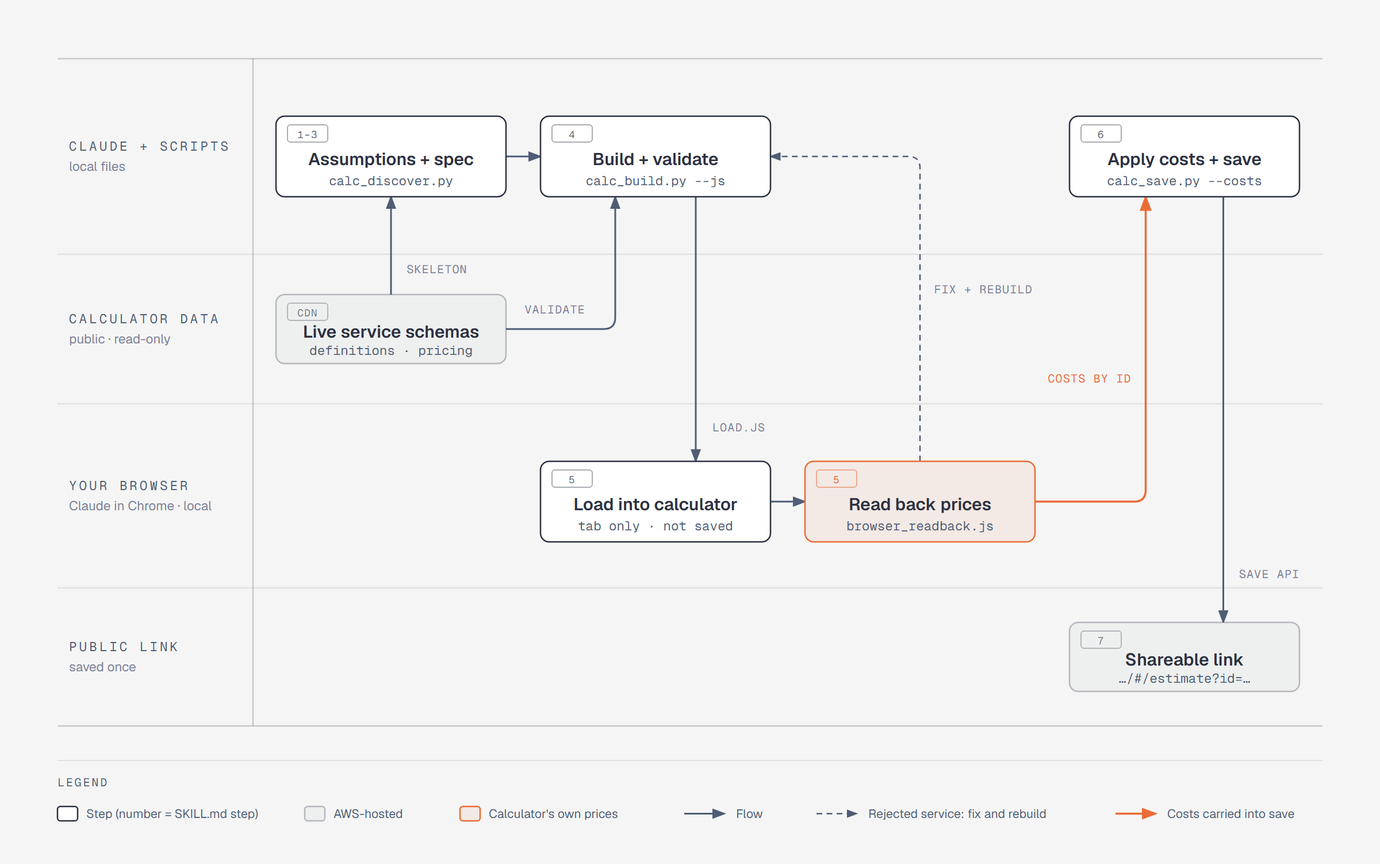
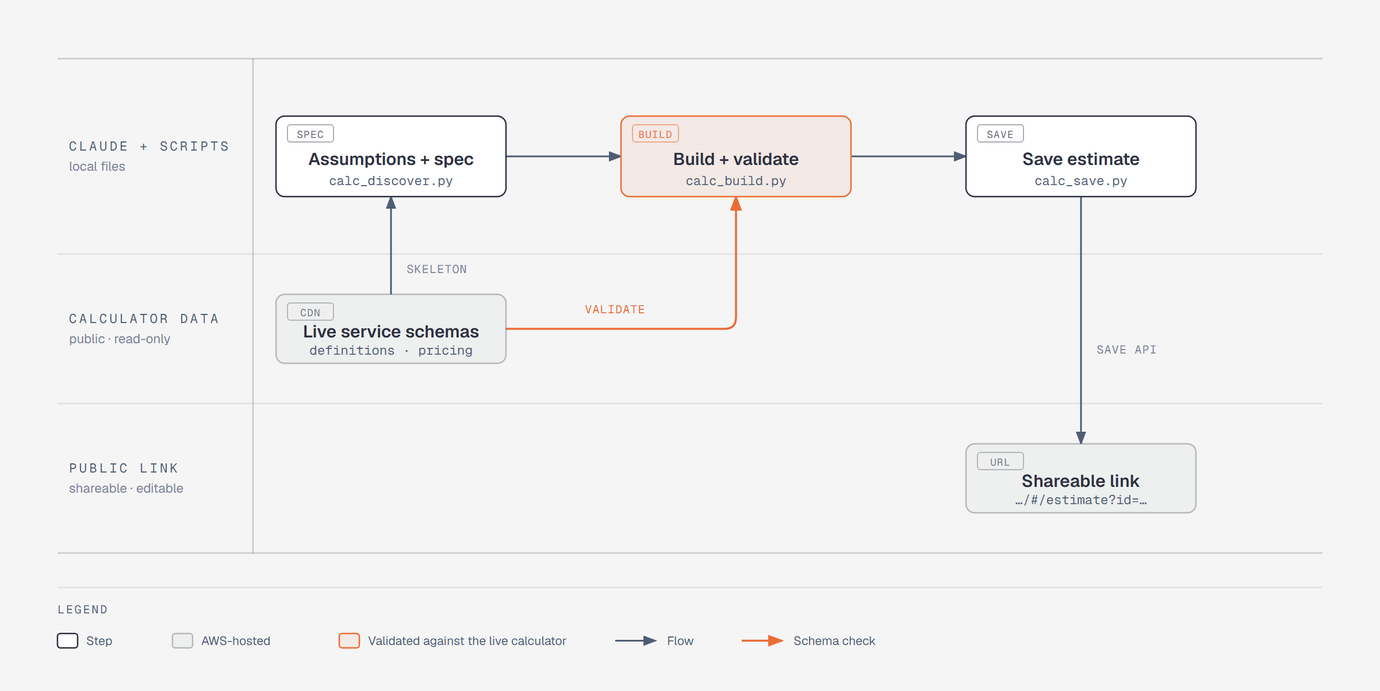
docs: simplify README and workflow diagram, tool-neutral wording
- README: shorter intro and feature list; diagram reduced to
  spec -> build + validate -> save -> link.
- SKILL.md, references, scripts: generic wording for tool references.

diff --git a/docs/workflow.html b/docs/workflow.html
@@ -58,9 +58,9 @@
     <p class="eyebrow">Swimlane · aws-pricing-calculator skill</p>
     <h1>From an architecture brief to a calculator link</h1>
 
-    <svg viewBox="0 0 960 600" xmlns="http://www.w3.org/2000/svg" role="img" aria-labelledby="skill-workflow-title skill-workflow-desc">
+    <svg viewBox="0 0 960 480" xmlns="http://www.w3.org/2000/svg" role="img" aria-labelledby="skill-workflow-title skill-workflow-desc">
       <title id="skill-workflow-title">How the aws-pricing-calculator skill builds an estimate</title>
-      <desc id="skill-workflow-desc">Swimlane showing the skill writing a spec, building and validating it against the calculator's live service schemas, loading it into a local browser tab where the calculator prices it, reading those prices back, and saving once to a shareable public link, with a fix-and-rebuild loop when the calculator rejects a service.</desc>
+      <desc id="skill-workflow-desc">Swimlane showing the skill writing a spec, building and validating it against the calculator's live service schemas, and saving it to a shareable calculator link.</desc>
       <defs>
         <marker id="arrow" markerWidth="8" markerHeight="6" refX="7" refY="3" orient="auto"><polygon points="0 0, 8 3, 0 6" fill="#4f5d75"/></marker>
         <marker id="arrow-accent" markerWidth="8" markerHeight="6" refX="7" refY="3" orient="auto"><polygon points="0 0, 8 3, 0 6" fill="#eb6c36"/></marker>
@@ -73,130 +73,96 @@
       <line x1="40" y1="40" x2="920" y2="40" stroke="rgba(45,49,66,0.22)" stroke-width="1"/>
       <line x1="40" y1="176" x2="920" y2="176" stroke="rgba(45,49,66,0.10)" stroke-width="1"/>
       <line x1="40" y1="280" x2="920" y2="280" stroke="rgba(45,49,66,0.10)" stroke-width="1"/>
-      <line x1="40" y1="408" x2="920" y2="408" stroke="rgba(45,49,66,0.10)" stroke-width="1"/>
-      <line x1="40" y1="504" x2="920" y2="504" stroke="rgba(45,49,66,0.22)" stroke-width="1"/>
-      <line x1="176" y1="40" x2="176" y2="504" stroke="rgba(45,49,66,0.22)" stroke-width="1"/>
+      <line x1="40" y1="384" x2="920" y2="384" stroke="rgba(45,49,66,0.22)" stroke-width="1"/>
+      <line x1="176" y1="40" x2="176" y2="384" stroke="rgba(45,49,66,0.22)" stroke-width="1"/>
 
       <!-- Lane labels -->
       <text x="48" y="104" fill="#4f5d75" font-size="9" font-family="'Geist Mono', monospace" letter-spacing="0.18em">CLAUDE + SCRIPTS</text>
       <text x="48" y="118" fill="#7a8399" font-size="9" font-family="'Geist', sans-serif">local files</text>
       <text x="48" y="224" fill="#4f5d75" font-size="9" font-family="'Geist Mono', monospace" letter-spacing="0.18em">CALCULATOR DATA</text>
       <text x="48" y="238" fill="#7a8399" font-size="9" font-family="'Geist', sans-serif">public · read-only</text>
-      <text x="48" y="340" fill="#4f5d75" font-size="9" font-family="'Geist Mono', monospace" letter-spacing="0.18em">YOUR BROWSER</text>
-      <text x="48" y="354" fill="#7a8399" font-size="9" font-family="'Geist', sans-serif">Claude in Chrome · local</text>
-      <text x="48" y="452" fill="#4f5d75" font-size="9" font-family="'Geist Mono', monospace" letter-spacing="0.18em">PUBLIC LINK</text>
-      <text x="48" y="466" fill="#7a8399" font-size="9" font-family="'Geist', sans-serif">saved once</text>
+      <text x="48" y="328" fill="#4f5d75" font-size="9" font-family="'Geist Mono', monospace" letter-spacing="0.18em">PUBLIC LINK</text>
+      <text x="48" y="342" fill="#7a8399" font-size="9" font-family="'Geist', sans-serif">shareable · editable</text>
 
       <!-- Connectors (drawn before nodes) -->
       <!-- Spec → Build -->
-      <line x1="352" y1="108" x2="376" y2="108" stroke="#4f5d75" stroke-width="1.2" marker-end="url(#arrow)"/>
+      <line x1="352" y1="108" x2="432" y2="108" stroke="#4f5d75" stroke-width="1.2" marker-end="url(#arrow)"/>
+      <!-- Build → Save -->
+      <line x1="592" y1="108" x2="672" y2="108" stroke="#4f5d75" stroke-width="1.2" marker-end="url(#arrow)"/>
       <!-- Schemas → Spec (skeleton) -->
       <line x1="272" y1="204" x2="272" y2="136" stroke="#4f5d75" stroke-width="1.2" marker-end="url(#arrow)"/>
       <!-- Schemas → Build (validate) -->
-      <path d="M 352,228 H 420 Q 428,228 428,220 V 136" fill="none" stroke="#4f5d75" stroke-width="1.2" marker-end="url(#arrow)"/>
-      <!-- Build → Load -->
-      <line x1="484" y1="136" x2="484" y2="320" stroke="#4f5d75" stroke-width="1.2" marker-end="url(#arrow)"/>
-      <!-- Load → Read back -->
-      <line x1="536" y1="348" x2="560" y2="348" stroke="#4f5d75" stroke-width="1.2" marker-end="url(#arrow)"/>
-      <!-- Read back → Build (fix loop) -->
-      <path d="M 640,320 V 116 Q 640,108 632,108 H 536" fill="none" stroke="#4f5d75" stroke-width="1" stroke-dasharray="4,3" marker-end="url(#arrow)"/>
-      <!-- Read back → Save (calculator costs) -->
-      <path d="M 720,348 H 789 Q 797,348 797,340 V 136" fill="none" stroke="#eb6c36" stroke-width="1.4" marker-end="url(#arrow-accent)"/>
+      <path d="M 352,228 H 504 Q 512,228 512,220 V 136" fill="none" stroke="#eb6c36" stroke-width="1.4" marker-end="url(#arrow-accent)"/>
       <!-- Save → Link -->
-      <line x1="851" y1="136" x2="851" y2="432" stroke="#4f5d75" stroke-width="1.2" marker-end="url(#arrow)"/>
+      <line x1="752" y1="136" x2="752" y2="308" stroke="#4f5d75" stroke-width="1.2" marker-end="url(#arrow)"/>
 
       <!-- Connector labels -->
       <rect x="280" y="180" width="48" height="12" rx="2" fill="#f5f5f5"/>
       <text x="304" y="189" fill="#7a8399" font-size="8" font-family="'Geist Mono', monospace" text-anchor="middle" letter-spacing="0.06em">SKELETON</text>
-      <rect x="362" y="208" width="48" height="12" rx="2" fill="#f5f5f5"/>
-      <text x="386" y="217" fill="#7a8399" font-size="8" font-family="'Geist Mono', monospace" text-anchor="middle" letter-spacing="0.06em">VALIDATE</text>
-      <rect x="492" y="290" width="44" height="12" rx="2" fill="#f5f5f5"/>
-      <text x="514" y="299" fill="#7a8399" font-size="8" font-family="'Geist Mono', monospace" text-anchor="middle" letter-spacing="0.06em">LOAD.JS</text>
-      <rect x="648" y="194" width="72" height="12" rx="2" fill="#f5f5f5"/>
-      <text x="684" y="203" fill="#7a8399" font-size="8" font-family="'Geist Mono', monospace" text-anchor="middle" letter-spacing="0.06em">FIX + REBUILD</text>
-      <rect x="727" y="256" width="62" height="12" rx="2" fill="#f5f5f5"/>
-      <text x="758" y="265" fill="#eb6c36" font-size="8" font-family="'Geist Mono', monospace" text-anchor="middle" letter-spacing="0.06em">COSTS BY ID</text>
-      <rect x="859" y="392" width="48" height="12" rx="2" fill="#f5f5f5"/>
-      <text x="883" y="401" fill="#7a8399" font-size="8" font-family="'Geist Mono', monospace" text-anchor="middle" letter-spacing="0.06em">SAVE API</text>
+      <rect x="404" y="208" width="48" height="12" rx="2" fill="#f5f5f5"/>
+      <text x="428" y="217" fill="#eb6c36" font-size="8" font-family="'Geist Mono', monospace" text-anchor="middle" letter-spacing="0.06em">VALIDATE</text>
+      <rect x="760" y="236" width="48" height="12" rx="2" fill="#f5f5f5"/>
+      <text x="784" y="245" fill="#7a8399" font-size="8" font-family="'Geist Mono', monospace" text-anchor="middle" letter-spacing="0.06em">SAVE API</text>
 
       <!-- Nodes -->
-      <!-- 1-3 Assumptions + spec -->
+      <!-- Assumptions + spec -->
       <rect x="192" y="80" width="160" height="56" rx="6" fill="#f5f5f5"/>
       <rect x="192" y="80" width="160" height="56" rx="6" fill="#ffffff" stroke="#2d3142" stroke-width="1"/>
-      <rect x="200" y="86" width="28" height="12" rx="2" fill="transparent" stroke="rgba(45,49,66,0.40)" stroke-width="0.8"/>
-      <text x="214" y="95" fill="rgba(45,49,66,0.8)" font-size="7" font-family="'Geist Mono', monospace" text-anchor="middle" letter-spacing="0.08em">1–3</text>
+      <rect x="200" y="86" width="32" height="12" rx="2" fill="transparent" stroke="rgba(45,49,66,0.40)" stroke-width="0.8"/>
+      <text x="216" y="95" fill="rgba(45,49,66,0.8)" font-size="7" font-family="'Geist Mono', monospace" text-anchor="middle" letter-spacing="0.08em">SPEC</text>
       <text x="272" y="114" fill="#2d3142" font-size="12" font-weight="600" font-family="'Geist', sans-serif" text-anchor="middle">Assumptions + spec</text>
       <text x="272" y="128" fill="#4f5d75" font-size="9" font-family="'Geist Mono', monospace" text-anchor="middle">calc_discover.py</text>
 
-      <!-- 4 Build + validate -->
-      <rect x="376" y="80" width="160" height="56" rx="6" fill="#f5f5f5"/>
-      <rect x="376" y="80" width="160" height="56" rx="6" fill="#ffffff" stroke="#2d3142" stroke-width="1"/>
-      <rect x="384" y="86" width="28" height="12" rx="2" fill="transparent" stroke="rgba(45,49,66,0.40)" stroke-width="0.8"/>
-      <text x="398" y="95" fill="rgba(45,49,66,0.8)" font-size="7" font-family="'Geist Mono', monospace" text-anchor="middle" letter-spacing="0.08em">4</text>
-      <text x="456" y="114" fill="#2d3142" font-size="12" font-weight="600" font-family="'Geist', sans-serif" text-anchor="middle">Build + validate</text>
-      <text x="456" y="128" fill="#4f5d75" font-size="9" font-family="'Geist Mono', monospace" text-anchor="middle">calc_build.py --js</text>
+      <!-- Build + validate (focal) -->
+      <rect x="432" y="80" width="160" height="56" rx="6" fill="#f5f5f5"/>
+      <rect x="432" y="80" width="160" height="56" rx="6" fill="rgba(235,108,54,0.08)" stroke="#eb6c36" stroke-width="1"/>
+      <rect x="440" y="86" width="32" height="12" rx="2" fill="transparent" stroke="rgba(235,108,54,0.50)" stroke-width="0.8"/>
+      <text x="456" y="95" fill="#eb6c36" font-size="7" font-family="'Geist Mono', monospace" text-anchor="middle" letter-spacing="0.08em">BUILD</text>
+      <text x="512" y="114" fill="#2d3142" font-size="12" font-weight="600" font-family="'Geist', sans-serif" text-anchor="middle">Build + validate</text>
+      <text x="512" y="128" fill="#4f5d75" font-size="9" font-family="'Geist Mono', monospace" text-anchor="middle">calc_build.py</text>
 
-      <!-- 6 Apply costs + save -->
-      <rect x="744" y="80" width="160" height="56" rx="6" fill="#f5f5f5"/>
-      <rect x="744" y="80" width="160" height="56" rx="6" fill="#ffffff" stroke="#2d3142" stroke-width="1"/>
-      <rect x="752" y="86" width="28" height="12" rx="2" fill="transparent" stroke="rgba(45,49,66,0.40)" stroke-width="0.8"/>
-      <text x="766" y="95" fill="rgba(45,49,66,0.8)" font-size="7" font-family="'Geist Mono', monospace" text-anchor="middle" letter-spacing="0.08em">6</text>
-      <text x="824" y="114" fill="#2d3142" font-size="12" font-weight="600" font-family="'Geist', sans-serif" text-anchor="middle">Apply costs + save</text>
-      <text x="824" y="128" fill="#4f5d75" font-size="9" font-family="'Geist Mono', monospace" text-anchor="middle">calc_save.py --costs</text>
+      <!-- Save estimate -->
+      <rect x="672" y="80" width="160" height="56" rx="6" fill="#f5f5f5"/>
+      <rect x="672" y="80" width="160" height="56" rx="6" fill="#ffffff" stroke="#2d3142" stroke-width="1"/>
+      <rect x="680" y="86" width="32" height="12" rx="2" fill="transparent" stroke="rgba(45,49,66,0.40)" stroke-width="0.8"/>
+      <text x="696" y="95" fill="rgba(45,49,66,0.8)" font-size="7" font-family="'Geist Mono', monospace" text-anchor="middle" letter-spacing="0.08em">SAVE</text>
+      <text x="752" y="114" fill="#2d3142" font-size="12" font-weight="600" font-family="'Geist', sans-serif" text-anchor="middle">Save estimate</text>
+      <text x="752" y="128" fill="#4f5d75" font-size="9" font-family="'Geist Mono', monospace" text-anchor="middle">calc_save.py</text>
 
       <!-- Live service schemas (external) -->
       <rect x="192" y="204" width="160" height="48" rx="6" fill="#f5f5f5"/>
       <rect x="192" y="204" width="160" height="48" rx="6" fill="rgba(45,49,66,0.03)" stroke="rgba(45,49,66,0.30)" stroke-width="1"/>
-      <rect x="200" y="210" width="28" height="12" rx="2" fill="transparent" stroke="rgba(45,49,66,0.30)" stroke-width="0.8"/>
-      <text x="214" y="219" fill="rgba(45,49,66,0.7)" font-size="7" font-family="'Geist Mono', monospace" text-anchor="middle" letter-spacing="0.08em">CDN</text>
+      <rect x="200" y="210" width="32" height="12" rx="2" fill="transparent" stroke="rgba(45,49,66,0.30)" stroke-width="0.8"/>
+      <text x="216" y="219" fill="rgba(45,49,66,0.7)" font-size="7" font-family="'Geist Mono', monospace" text-anchor="middle" letter-spacing="0.08em">CDN</text>
       <text x="272" y="234" fill="#2d3142" font-size="12" font-weight="600" font-family="'Geist', sans-serif" text-anchor="middle">Live service schemas</text>
       <text x="272" y="246" fill="#4f5d75" font-size="9" font-family="'Geist Mono', monospace" text-anchor="middle">definitions · pricing</text>
 
-      <!-- 5 Load into calculator -->
-      <rect x="376" y="320" width="160" height="56" rx="6" fill="#f5f5f5"/>
-      <rect x="376" y="320" width="160" height="56" rx="6" fill="#ffffff" stroke="#2d3142" stroke-width="1"/>
-      <rect x="384" y="326" width="28" height="12" rx="2" fill="transparent" stroke="rgba(45,49,66,0.40)" stroke-width="0.8"/>
-      <text x="398" y="335" fill="rgba(45,49,66,0.8)" font-size="7" font-family="'Geist Mono', monospace" text-anchor="middle" letter-spacing="0.08em">5</text>
-      <text x="456" y="354" fill="#2d3142" font-size="12" font-weight="600" font-family="'Geist', sans-serif" text-anchor="middle">Load into calculator</text>
-      <text x="456" y="368" fill="#4f5d75" font-size="9" font-family="'Geist Mono', monospace" text-anchor="middle">tab only · not saved</text>
-
-      <!-- 5 Read back prices (focal) -->
-      <rect x="560" y="320" width="160" height="56" rx="6" fill="#f5f5f5"/>
-      <rect x="560" y="320" width="160" height="56" rx="6" fill="rgba(235,108,54,0.08)" stroke="#eb6c36" stroke-width="1"/>
-      <rect x="568" y="326" width="28" height="12" rx="2" fill="transparent" stroke="rgba(235,108,54,0.50)" stroke-width="0.8"/>
-      <text x="582" y="335" fill="#eb6c36" font-size="7" font-family="'Geist Mono', monospace" text-anchor="middle" letter-spacing="0.08em">5</text>
-      <text x="640" y="354" fill="#2d3142" font-size="12" font-weight="600" font-family="'Geist', sans-serif" text-anchor="middle">Read back prices</text>
-      <text x="640" y="368" fill="#4f5d75" font-size="9" font-family="'Geist Mono', monospace" text-anchor="middle">browser_readback.js</text>
-
-      <!-- 7 Shareable link (external) -->
-      <rect x="744" y="432" width="160" height="48" rx="6" fill="#f5f5f5"/>
-      <rect x="744" y="432" width="160" height="48" rx="6" fill="rgba(45,49,66,0.03)" stroke="rgba(45,49,66,0.30)" stroke-width="1"/>
-      <rect x="752" y="438" width="28" height="12" rx="2" fill="transparent" stroke="rgba(45,49,66,0.30)" stroke-width="0.8"/>
-      <text x="766" y="447" fill="rgba(45,49,66,0.7)" font-size="7" font-family="'Geist Mono', monospace" text-anchor="middle" letter-spacing="0.08em">7</text>
-      <text x="824" y="462" fill="#2d3142" font-size="12" font-weight="600" font-family="'Geist', sans-serif" text-anchor="middle">Shareable link</text>
-      <text x="824" y="474" fill="#4f5d75" font-size="9" font-family="'Geist Mono', monospace" text-anchor="middle">…/#/estimate?id=…</text>
+      <!-- Shareable link (external) -->
+      <rect x="672" y="308" width="160" height="48" rx="6" fill="#f5f5f5"/>
+      <rect x="672" y="308" width="160" height="48" rx="6" fill="rgba(45,49,66,0.03)" stroke="rgba(45,49,66,0.30)" stroke-width="1"/>
+      <rect x="680" y="314" width="32" height="12" rx="2" fill="transparent" stroke="rgba(45,49,66,0.30)" stroke-width="0.8"/>
+      <text x="696" y="323" fill="rgba(45,49,66,0.7)" font-size="7" font-family="'Geist Mono', monospace" text-anchor="middle" letter-spacing="0.08em">URL</text>
+      <text x="752" y="338" fill="#2d3142" font-size="12" font-weight="600" font-family="'Geist', sans-serif" text-anchor="middle">Shareable link</text>
+      <text x="752" y="350" fill="#4f5d75" font-size="9" font-family="'Geist Mono', monospace" text-anchor="middle">…/#/estimate?id=…</text>
 
       <!-- Legend -->
-      <line x1="40" y1="528" x2="920" y2="528" stroke="rgba(45,49,66,0.10)" stroke-width="0.8"/>
-      <text x="40" y="546" fill="#4f5d75" font-size="8" font-family="'Geist Mono', monospace" letter-spacing="0.14em">LEGEND</text>
+      <line x1="40" y1="408" x2="920" y2="408" stroke="rgba(45,49,66,0.10)" stroke-width="0.8"/>
+      <text x="40" y="426" fill="#4f5d75" font-size="8" font-family="'Geist Mono', monospace" letter-spacing="0.14em">LEGEND</text>
 
-      <rect x="40" y="560" width="14" height="10" rx="2" fill="#ffffff" stroke="#2d3142" stroke-width="1"/>
-      <text x="60" y="568" fill="#4f5d75" font-size="8.5" font-family="'Geist', sans-serif">Step (number = SKILL.md step)</text>
+      <rect x="40" y="440" width="14" height="10" rx="2" fill="#ffffff" stroke="#2d3142" stroke-width="1"/>
+      <text x="60" y="448" fill="#4f5d75" font-size="8.5" font-family="'Geist', sans-serif">Step</text>
 
-      <rect x="212" y="560" width="14" height="10" rx="2" fill="rgba(45,49,66,0.03)" stroke="rgba(45,49,66,0.30)" stroke-width="1"/>
-      <text x="232" y="568" fill="#4f5d75" font-size="8.5" font-family="'Geist', sans-serif">AWS-hosted</text>
+      <rect x="120" y="440" width="14" height="10" rx="2" fill="rgba(45,49,66,0.03)" stroke="rgba(45,49,66,0.30)" stroke-width="1"/>
+      <text x="140" y="448" fill="#4f5d75" font-size="8.5" font-family="'Geist', sans-serif">AWS-hosted</text>
 
-      <rect x="320" y="560" width="14" height="10" rx="2" fill="rgba(235,108,54,0.08)" stroke="#eb6c36" stroke-width="1"/>
-      <text x="340" y="568" fill="#4f5d75" font-size="8.5" font-family="'Geist', sans-serif">Calculator's own prices</text>
+      <rect x="236" y="440" width="14" height="10" rx="2" fill="rgba(235,108,54,0.08)" stroke="#eb6c36" stroke-width="1"/>
+      <text x="256" y="448" fill="#4f5d75" font-size="8.5" font-family="'Geist', sans-serif">Validated against the live calculator</text>
 
-      <line x1="476" y1="565" x2="504" y2="565" stroke="#4f5d75" stroke-width="1.2" marker-end="url(#arrow)"/>
-      <text x="512" y="568" fill="#4f5d75" font-size="8.5" font-family="'Geist', sans-serif">Flow</text>
+      <line x1="428" y1="445" x2="456" y2="445" stroke="#4f5d75" stroke-width="1.2" marker-end="url(#arrow)"/>
+      <text x="464" y="448" fill="#4f5d75" font-size="8.5" font-family="'Geist', sans-serif">Flow</text>
 
-      <line x1="568" y1="565" x2="596" y2="565" stroke="#4f5d75" stroke-width="1" stroke-dasharray="4,3" marker-end="url(#arrow)"/>
-      <text x="604" y="568" fill="#4f5d75" font-size="8.5" font-family="'Geist', sans-serif">Rejected service: fix and rebuild</text>
-
-      <line x1="776" y1="565" x2="804" y2="565" stroke="#eb6c36" stroke-width="1.4" marker-end="url(#arrow-accent)"/>
-      <text x="812" y="568" fill="#4f5d75" font-size="8.5" font-family="'Geist', sans-serif">Costs carried into save</text>
+      <line x1="516" y1="445" x2="544" y2="445" stroke="#eb6c36" stroke-width="1.4" marker-end="url(#arrow-accent)"/>
+      <text x="552" y="448" fill="#4f5d75" font-size="8.5" font-family="'Geist', sans-serif">Schema check</text>
     </svg>
   </div>
 </body>

diff --git a/scripts/browser_readback.js b/scripts/browser_readback.js
@@ -4,8 +4,8 @@
 //   - an estimate loaded locally with the `calc_build.py --js` loader (preferred: nothing is
 //     published), or
 //   - a saved link https://calculator.aws/#/estimate?id=<key>, opened in a new tab.
-// Evaluate this function in the page. Playwright browser_evaluate takes it as is.
-// Claude in Chrome javascript_tool stops waiting after 45 s, so start it without awaiting,
+// Evaluate this function in the page with your browser tool. Tools that stop waiting after
+// about 45 s: start it without awaiting,
 //   (<this function>)(); 'started'
 // then poll (each call under 45 s) until status is "done":
 //   await new Promise(r => setTimeout(r, 30000)); JSON.stringify(window.__calcReadback)
@@ -110,7 +110,7 @@ async ({ crossCheck = true } = {}) => {
   };
   try { walk(JSON.parse(sessionStorage.getItem('awspc-root-estimate-v1')).estimate); } catch (e) { /* no local copy */ }
 
-  // The same data as JSON lines short enough for tools that cut long strings (Claude in Chrome: 1000 chars):
+  // The same data as JSON lines short enough for tools that cut long strings (some at 1000 chars):
   // write them one per line to readback.jsonl for `calc_save.py --costs readback.jsonl`.
   const lines = [];
   for (const [id, p] of Object.entries(priced)) {

diff --git a/README.md b/README.md
@@ -2,13 +2,13 @@
 
 Generate shareable [AWS Pricing Calculator](https://calculator.aws) URLs from architecture descriptions, blog posts, or solution documents. Use them for MAP (Migration Acceleration Program) funding applications, customer proposals, and internal cost reviews.
 
-**How is this different from the AWS Pricing MCP?** The AWS Pricing MCP looks up unit prices (e.g. "$0.0416/hr for t3.medium"). This skill goes end-to-end. It discovers the calculator's live input schemas, builds and **validates** the estimate JSON, has the calculator price it in your browser without publishing anything, and saves it once with the calculator's own numbers. The result is a URL stakeholders can open and edit.
+**How is this different from the AWS Pricing MCP?** The AWS Pricing MCP looks up unit prices (e.g. "$0.0416/hr for t3.medium"). This skill goes end-to-end. It discovers the calculator's live input schemas, builds and **validates** the estimate JSON, and saves it to the calculator. The result is a URL stakeholders can open and edit.
 
 ## How it works
 
-![Workflow: Claude writes a spec and builds and validates it against the calculator's live schemas, loads it into a local calculator tab where the calculator prices it, reads those prices back, then saves once to a shareable link](docs/workflow.png)
+![Workflow: Claude writes a spec, builds and validates it against the calculator's live schemas, then saves it to a shareable calculator link](docs/workflow.png)
 
-Box numbers match the steps in [SKILL.md](SKILL.md). Nothing is published until step 6: in step 5 the calculator prices the estimate in a local browser tab, and a service it rejects sends the skill back to fix and rebuild. Diagram source: [`docs/workflow.html`](docs/workflow.html).
+Diagram source: [`docs/workflow.html`](docs/workflow.html).
 
 ## Install
 
@@ -25,7 +25,6 @@ Or clone into `~/.claude/skills/aws-pricing-calculator/`.
 | Python 3.10+ | scripts | stdlib only, no `pip install` |
 | curl | scripts | all HTTP goes through curl |
 | [AWS Pricing MCP Server](https://github.com/awslabs/mcp/tree/main/src/aws-pricing-mcp-server) | optional | unit prices for the expected-cost cross-check |
-| A browser tool (Claude in Chrome, Playwright MCP) | recommended | prices the estimate in the calculator before saving and reads the costs back (SKILL.md Step 5) |
 
 ## What it does
 
@@ -33,8 +32,7 @@ Or clone into `~/.claude/skills/aws-pricing-calculator/`.
 2. **Discovers schemas** from the live calculator definitions: input ids, valid option and unit ids, defaults, and when each input is visible
 3. **Builds the estimate**, filling `version` / `estimateFor` from the live definition, with support for group services such as S3 and DynamoDB
 4. **Validates** every input the way the calculator loads it: unknown ids, invalid enum values, wrong units, missing inputs that would load as 0, table rows checked against the calculator's pricing data, inactive services, regions
-5. **Prices it in the calculator before saving** (Claude in Chrome or Playwright): loads the estimate into a calculator.aws tab without publishing anything, reads back the calculator's own per-service costs and status, and flags services whose edit page disagrees with the estimate page
-6. **Saves** once with the calculator's own numbers (`calc_save.py --costs`), so the link opens with no "Cost updated" badges, and confirms the stored copy matches
+5. **Saves** the estimate and confirms the stored copy matches what was sent
 
 ## Why validation matters
 
@@ -57,7 +55,7 @@ When a saved estimate is opened, the calculator **recomputes** every service fro
 
 `references/service_formats.md` holds ready spec blocks, all priced in the calculator (2026-11-08): EC2 (with On-Demand, Savings Plans, Reserved and Spot strategies), EBS, S3 (group), Secrets Manager, Managed Apache Flink, AppStream, RDS for Oracle, MSK Provisioned, OpenSearch.
 
-Any other active service (430+) works through `calc_discover.py --skeleton` (table inputs filled from the calculator's pricing data), or by capturing what the calculator UI writes (SKILL.md Step 2.3).
+Any other active service (430+) works through `calc_discover.py --skeleton` (table inputs filled from the calculator's pricing data).
 
 ## Usage
 
@@ -74,7 +72,7 @@ cd scripts
 python calc_discover.py --list database                          # find service codes
 python calc_discover.py amazonElasticBlockStore                  # inputs, ids, units
 python calc_discover.py amazonElasticBlockStore --skeleton spec.json
-python calc_build.py spec.json -o estimate.json --js load.js     # build + validate (+ browser loader)
+python calc_build.py spec.json -o estimate.json                  # build + validate
 python calc_save.py estimate.json                                # save + round-trip check
 python calc_fetch.py "https://calculator.aws/#/estimate?id=..." --spec spec.json   # edit an existing one
 ```

diff --git a/SKILL.md b/SKILL.md
@@ -106,20 +106,18 @@ lists tables the calculator will fill in. Re-run until it prints `OK`.
 
 ### Step 5: Price it in the calculator before saving (calibrate)
 
-Use **Claude in Chrome** (or Playwright MCP). Nothing is published in this step.
+Use the browser tool available in the session. Nothing is published in this step.
 
-1. Load the Chrome tools in one ToolSearch (`tabs_context_mcp`, `tabs_create_mcp`,
-   `navigate`, `javascript_tool`, `tabs_close_mcp`), call `tabs_context_mcp`,
-   create a **new** tab and navigate it to `https://calculator.aws/#/`. Don't
-   reuse a tab with the user's own work: the loader replaces its in-progress estimate.
-2. Run the contents of `load.js` with `javascript_tool`. It stores the estimate as
-   the tab's in-progress estimate and reloads; the calculator prices every service.
-3. Start the read-back without waiting (`javascript_tool` gives up after 45 s, and
-   the read-back opens each service's edit page, about 7 s each):
+1. Open a **new** tab at `https://calculator.aws/#/`. Don't reuse a tab with the
+   user's own work: the loader replaces its in-progress estimate.
+2. Run the contents of `load.js` in that page. It stores the estimate as the tab's
+   in-progress estimate and reloads; the calculator prices every service.
+3. Start the read-back without waiting for it (it opens each service's edit page,
+   about 7 s each, and page-script tools often stop waiting after about 45 s):
    `(<contents of scripts/browser_readback.js>)(); 'started'`
    Poll until `status` is `done`:
    `await new Promise(r => setTimeout(r, 20000)); JSON.stringify({s: window.__calcReadback.status, n: window.__calcReadback.checked, e: window.__calcReadback.error})`
-   (Playwright `browser_evaluate` with the function returns the result directly.)
+   (A tool that waits for the function's promise with no time limit gets the result directly.)
    If a poll finds `window.__calcReadback` undefined, the page reloaded: start step 3 again.
 4. Check `window.__calcReadback.result`: `readOnlyBanner`, and the `Status` column in
    `root` / `groups`:
@@ -129,8 +127,8 @@ Use **Claude in Chrome** (or Playwright MCP). Nothing is published in this step.
    - A service more than ~10% away from your Step 3 expectation: check units,
      multipliers and counts before trusting either number.
 5. Copy `window.__calcReadback.result.lines` into `readback.jsonl`, one line per
-   array item, fetching `.slice(0, 15)`, `.slice(15, 30)`, ... (the tool cuts any
-   single string at 1,000 characters; each line is shorter and is valid JSON on its own).
+   array item, fetching `.slice(0, 15)`, `.slice(15, 30)`, ... (some tools cut long
+   strings; each line is short and is valid JSON on its own).
 6. Close the tab.
 
 `result.mismatches` lists services whose edit page shows a different total than the

diff --git a/references/troubleshooting.md b/references/troubleshooting.md
@@ -71,15 +71,15 @@ format: the same components give two totals. Known case: OpenSearch gp3 storage
 under 300 GB per node (100 GB: $311.96 on the estimate page, $295.96 on the edit
 page). Shared links show the estimate-page figure; report both.
 
-## Claude in Chrome: "timed out after 45000ms"
+## The page-script call timed out
 
-`javascript_tool` stops waiting after 45 s. Start `browser_readback.js` without
+Some browser tools stop waiting for a page script after about 45 s. Start `browser_readback.js` without
 `await` and poll `window.__calcReadback` (SKILL.md Step 5). Keep each poll's wait
 around 20 s. The read-back keeps running in the page after a timeout.
 
-## Claude in Chrome: result cut off ("[TRUNCATED]")
+## The result came back cut off ("[TRUNCATED]")
 
-Single strings are cut at 1,000 characters. Fetch `window.__calcReadback.result.lines`
+Some browser tools cut long strings (one cuts at 1,000 characters). Fetch `window.__calcReadback.result.lines`
 in slices (`.slice(0, 15)`): an array of short strings comes back whole.
 
 ## The loaded estimate shows as an empty "My Estimate"
